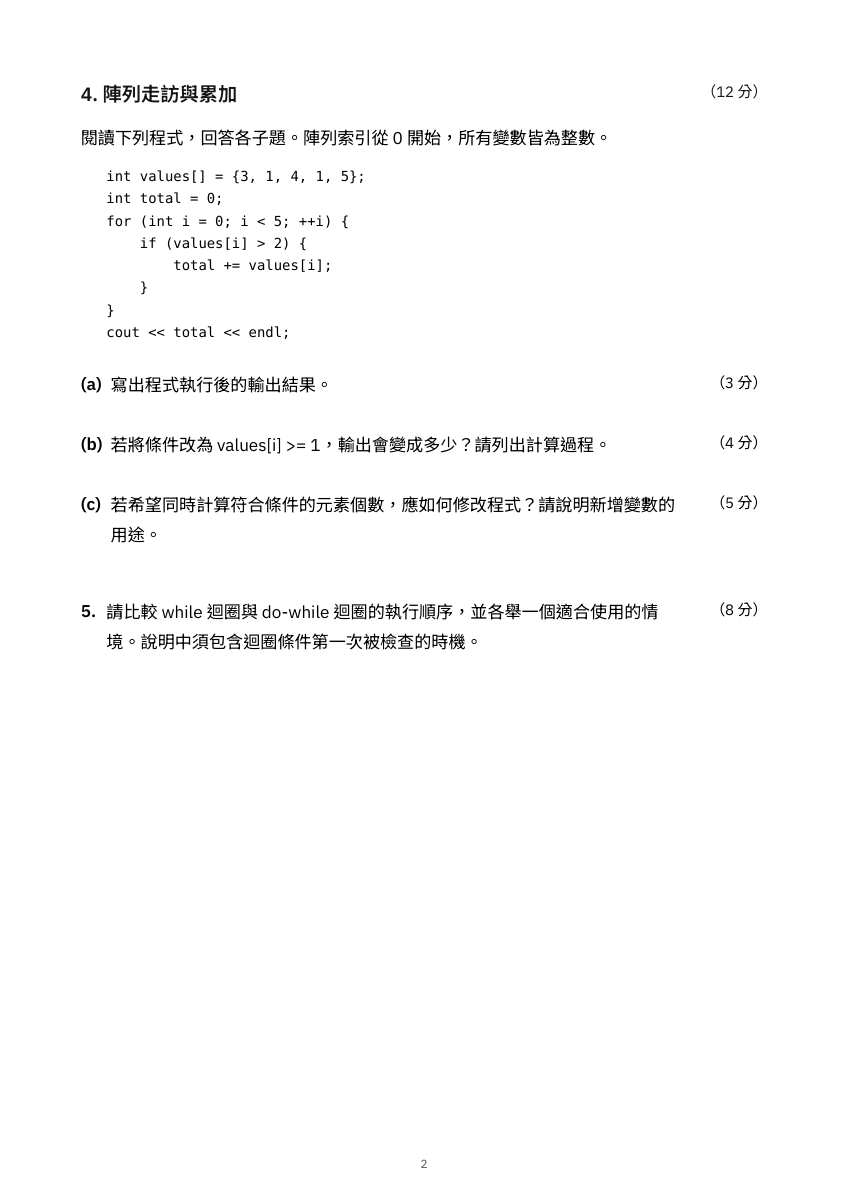
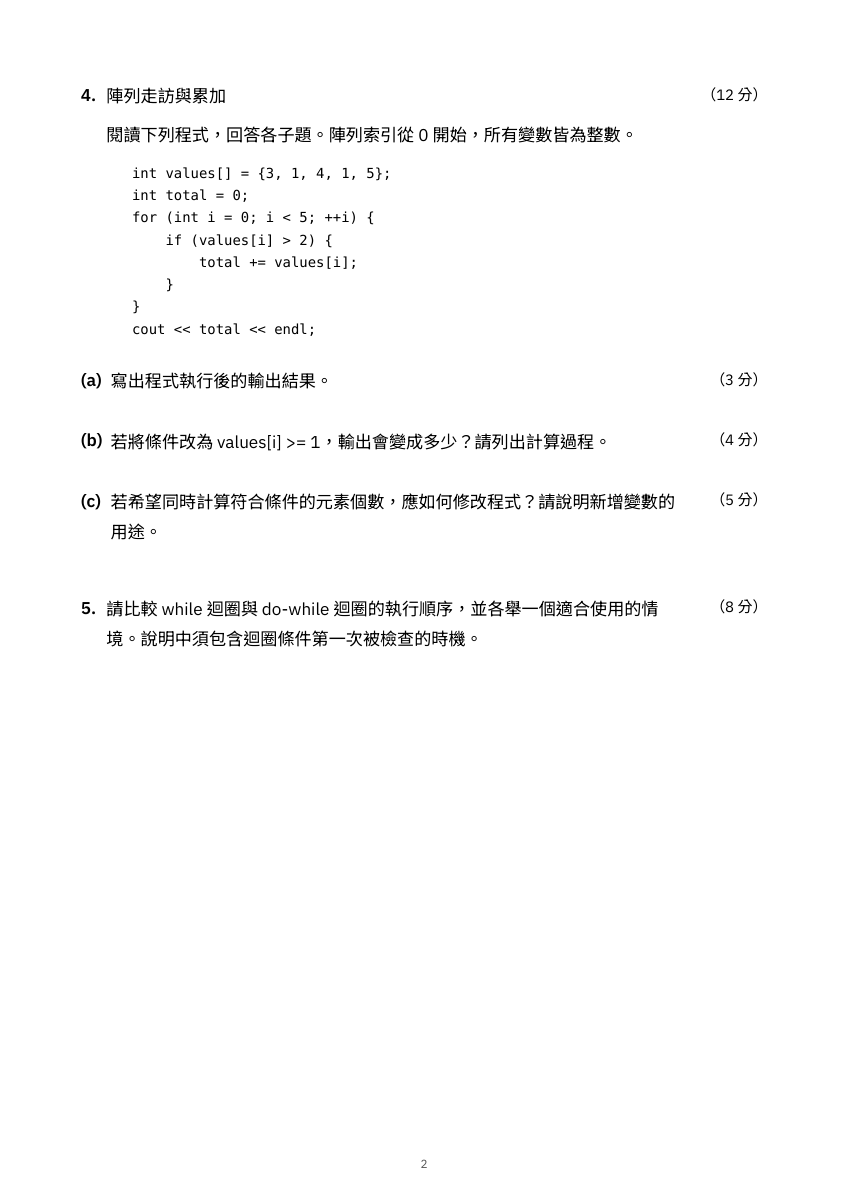
fix: render shared exam prompts like regular questions

diff --git a/backend/apps/contests/templates/exports/paper_exam_sheet.html b/backend/apps/contests/templates/exports/paper_exam_sheet.html
@@ -38,9 +38,15 @@
       {% if q.group_heading %}<section class="question-group-block">{% endif %}
       <article class="question-item{% if q.grouped %} grouped-question{% endif %}">
         {% if q.group_heading %}
-        <section class="question-group-heading">
-          <h3><span class="question-meta-inline">（{{ q.group_heading.score }} {{ labels.points_unit }}）</span>{{ q.group_heading.number }}. {% if q.group_heading.title %}{{ q.group_heading.title }}{% else %}{{ labels.question_group }}{% endif %}</h3>
-          <div class="markdown-content">{{ q.group_heading.stem_html|safe }}</div>
+        <section class="question-group-heading question-body">
+          <div class="question-headline">
+            <span class="question-number">{{ q.group_heading.number }}.</span>
+            <span class="question-meta-inline">（{{ q.group_heading.score }} {{ labels.points_unit }}）</span>
+          </div>
+          <div class="question-prompt markdown-content">
+            {% if q.group_heading.title %}<p>{{ q.group_heading.title }}</p>{% endif %}
+            {{ q.group_heading.stem_html|safe }}
+          </div>
         </section>
         {% endif %}
         <div class="question-body">

diff --git a/backend/apps/contests/static/exports/paper-exam-sheet.css b/backend/apps/contests/static/exports/paper-exam-sheet.css
@@ -126,19 +126,13 @@ p, li {
   margin: 44px 0 24px;
 }
 
-.question-group-meta {
-  font-weight: 700;
-}
-
-.question-group-heading h3 {
-  margin: 0 0 14px;
-  font-size: 18px;
-  font-weight: 700;
-}
-
 .grouped-question .question-body {
   margin-left: 0;
   padding-left: 28px;
+}
+
+.question-group-heading.question-body {
+  padding-left: 24px;
 }
 
 .grouped-question .question-number {

diff --git a/backend/apps/contests/tests/exporters/test_paper_exam_sheet_service.py b/backend/apps/contests/tests/exporters/test_paper_exam_sheet_service.py
@@ -408,10 +408,11 @@ def test_question_paper_omits_writing_space_by_default(paper_exam_contest):
 
 @pytest.mark.django_db
 @pytest.mark.parametrize("include_answers", [False, True])
-def test_group_header_precedes_children_once(paper_exam_contest, include_answers):
+@pytest.mark.parametrize("group_title", ["Loop exercise", ""])
+def test_group_header_precedes_children_once(paper_exam_contest, include_answers, group_title):
     from apps.contests.models import ExamQuestionGroup
     group = ExamQuestionGroup.objects.create(
-        contest=paper_exam_contest, title="Loop exercise", shared_stem_markdown="Common rules for both parts.",
+        contest=paper_exam_contest, title=group_title, shared_stem_markdown="Common rules for both parts.",
     )
     for index, score in enumerate([3, 5]):
         ExamQuestion.objects.create(
@@ -430,8 +431,12 @@ def test_group_header_precedes_children_once(paper_exam_contest, include_answers
     )
     html = PaperExamSheetRenderer(paper_exam_contest, include_answers=include_answers).render_html()
     assert html.count("Common rules for both parts.") == 1
-    assert html.count("Loop exercise") == 1
-    assert "1. Loop exercise</h3>" in html
+    if group_title:
+        assert html.count(group_title) == 1
+        assert html.index(group_title) < html.index("Common rules for both parts.")
+    assert ">1.</span>" in html
+    assert "Question group" not in html
+    assert "題組" not in html
     assert ">(a)</span>" in html
     assert ">(b)</span>" in html
     assert ">2.</span>" in html
@@ -442,4 +447,5 @@ def test_group_header_precedes_children_once(paper_exam_contest, include_answers
         assert "<td>3(a)</td>" in html
     assert html.index("Common rules for both parts.") < html.index("Child part 1") < html.index("Child part 2") < html.index("Standalone")
     assert html.count('class="question-item grouped-question"') == 3
-    assert '3. Second group</h3>' in html
+    assert ">3.</span>" in html
+    assert html.count("Second group") == 1
